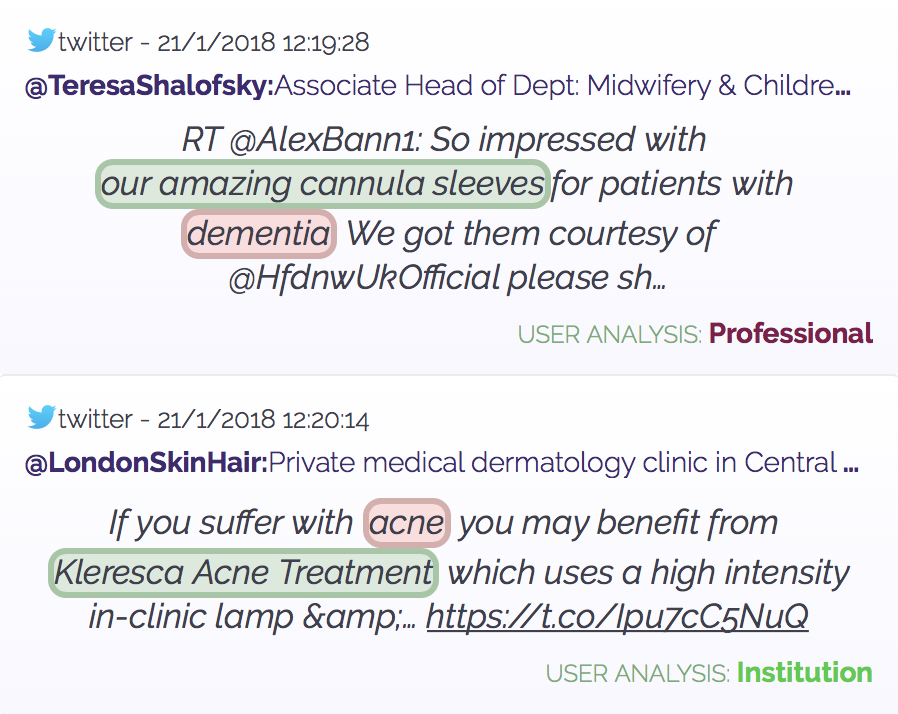
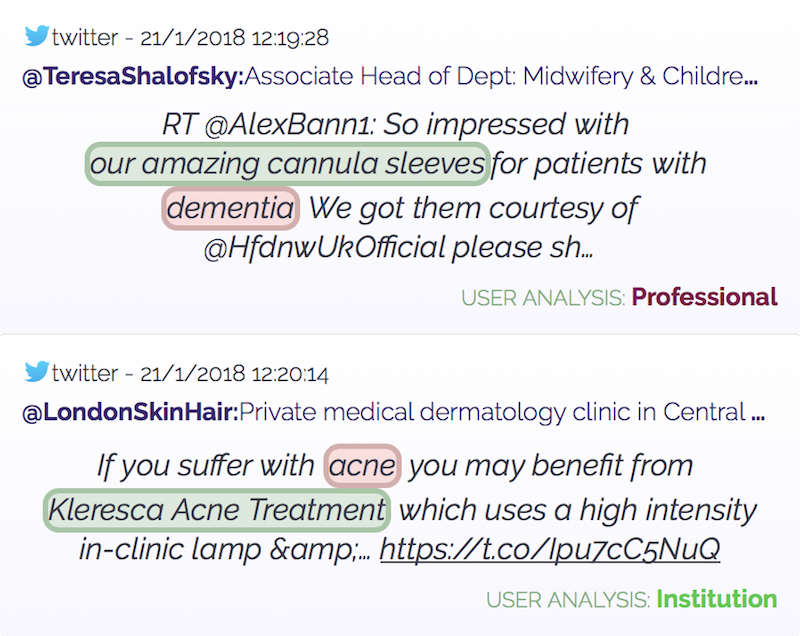
adding new content

diff --git a/assets/main.scss b/assets/main.scss
@@ -62,3 +62,124 @@ $on-laptop:        800px;
 a.site-title:hover{
   text-decoration: none;
 }
+
+.institution {
+  font-family: raleway-medium;
+  display: inline-block;
+  border-radius: 50px;
+  color: white;
+  height: 2rem;
+  padding: 0 0.2rem 0 0.2rem;
+  line-height: 2rem;
+  background-color: #2ecc40;
+}
+
+.academia {
+  font-family: raleway-medium;
+  display: inline-block;
+  border-radius: 50px;
+  color: white;
+  height: 2rem;
+  padding: 0 0.2rem 0 0.2rem;
+  line-height: 2rem;
+  background-color: #f012be;
+}
+
+.doctor {
+  font-family: raleway-medium;
+  display: inline-block;
+  border-radius: 50px;
+  color: white;
+  height: 2rem;
+  padding: 0 0.2rem 0 0.2rem;
+  line-height: 2rem;
+  background-color: #ff851b;
+}
+
+.publishingsource {
+  font-family: raleway-medium;
+  display: inline-block;
+  border-radius: 50px;
+  color: white;
+  height: 2rem;
+  padding: 0 0.2rem 0 0.2rem;
+  line-height: 2rem;
+  background-color: #ffdc00;
+}
+
+.professional {
+  font-family: raleway-medium;
+  display: inline-block;
+  border-radius: 50px;
+  color: white;
+  height: 2rem;
+  padding: 0 0.2rem 0 0.2rem;
+  line-height: 2rem;
+  background-color: #85144b;
+}
+
+.medbusiness {
+  font-family: raleway-medium;
+  display: inline-block;
+  border-radius: 50px;
+  color: white;
+  height: 2rem;
+  padding: 0 0.2rem 0 0.2rem;
+  line-height: 2rem;
+  background-color: #3d9970;
+}
+
+.interested {
+  font-family: raleway-medium;
+  display: inline-block;
+  border-radius: 50px;
+  color: white;
+  height: 2rem;
+  padding: 0 0.2rem 0 0.2rem;
+  line-height: 2rem;
+  background-color: #39cccc;
+}
+
+.initiative {
+  font-family: raleway-medium;
+  display: inline-block;
+  border-radius: 50px;
+  color: white;
+  height: 2rem;
+  padding: 0 0.2rem 0 0.2rem;
+  line-height: 2rem;
+  background-color: #ff4136;
+}
+
+.association {
+  font-family: raleway-medium;
+  display: inline-block;
+  border-radius: 50px;
+  color: white;
+  height: 2rem;
+  padding: 0 0.2rem 0 0.2rem;
+  line-height: 2rem;
+  background-color: #777777;
+}
+
+.generic {
+  font-family: raleway-medium;
+  display: inline-block;
+  border-radius: 50px;
+  color: white;
+  height: 2rem;
+  padding: 0 0.2rem 0 0.2rem;
+  line-height: 2rem;
+  background-color: #0074d9;
+}
+
+.news {
+  font-family: raleway-medium;
+  display: inline-block;
+  border-radius: 50px;
+  color: white;
+  height: 2rem;
+  padding: 0 0.2rem 0 0.2rem;
+  line-height: 2rem;
+  background-color: #001f3f;
+}

diff --git a/_includes/footer_content.html b/_includes/footer_content.html
@@ -2,4 +2,4 @@
 {% if site.feed and site.feed.path %}
   {% assign feed_path = site.feed.path %}
 {% endif %}
-&copy; {{ site.author }} Provided by the <a href="https://www.lifescope-project.com">Lifescope Project</a>
+{{ site.author }} Provided by the <a href="https://www.lifescope-project.com">Lifescope Project</a>

diff --git a/docs/assets/main.css b/docs/assets/main.css
@@ -106,7 +106,7 @@ blockquote {
  */
 pre,
 code {
-  font-size: 15px;
+  font-size: 25px;
   border: 1px solid #e8e8e8;
   border-radius: 3px;
   background-color: #eef; }

diff --git a/sources.md b/sources.md
@@ -1,21 +1,24 @@
 ---
 layout: page
-title: "Data sources"
+title: ""
 permalink: /sources/
 ---
 
-Our application and the returned datasets are based on different health information sources. Currently, the Lifescope’s algorithm receives and analyzes the data from a live source like **Twitter**, and open-source medical databases such as **PubMed** or **ClinicalTrials** (we expect to add more in the future, such as news, non-specialized and specialized feeds).
+Data sources
+------------
+
+Our application and the returned datasets are based on different health information sources. Currently, the Lifescope’s algorithm receives and analyzes data from a live source like **Twitter**, and open-source medical databases such as **PubMed** or **ClinicalTrials** (we expect to add more in the future).
 
 Lifescope is programmed with a Twitter stream listener receiving a constant input of health data, as you can see in our application timeline.
 
 <p align="center">
-<img align="center" width="512" height="407" src="/assets/img/twitterlifescope.png">
+<img align="center" width="492" height="387" src="/assets/img/twitterlifescope.png">
 </p>
 
 &nbsp; 
 &nbsp; 
 
-In addition, our platform connects to [PubMed](https://www.ncbi.nlm.nih.gov/pubmed/) and [Clinical Trials](https://www.clinicaltrials.gov)' websites, as you can see in the following screenshots.
+In addition, our platform connects to specialized databases like [PubMed](https://www.ncbi.nlm.nih.gov/pubmed/) and [Clinical Trials](https://www.clinicaltrials.gov) through RSS feeds.
 
 <p align="center">
 <img align="center" width="520" height="325" src="/assets/img/pubmed.png">
@@ -25,13 +28,13 @@ In addition, our platform connects to [PubMed](https://www.ncbi.nlm.nih.gov/pubm
 &nbsp; 
 &nbsp; 
 
-We periodically receive **RSS feeds** from these websites with up-to-date **medical articles' metadata**, which provide us with very valuable medical research headlines and hyperlinks.
+We periodically receive **RSS feeds** from these websites with up-to-date **medical articles' metadata**, which provide very valuable medical research headlines and hyperlinks.
 
 &nbsp; 
 
 Sources' reliability
 --------------------
-As very different types of information are involved, both from Twitter and specialized databases, we must explore each source’s reliability, as this table shows.
+As very different types of information are involved, both from non-specialized and specialized sources, we must explore each source’s reliability.
 
 | Source name | Source type | Reliability |
 |:--------------------------|:------------------|:---------------|
@@ -49,7 +52,7 @@ As very different types of information are involved, both from Twitter and speci
 | Association | Twitter | Less reliable |
 | Generic | Twitter | Less reliable |
 
-We made a simple but effective reliability scale to categorize the sources being used. As you can see, medical databases are at the top of the scale, whereas a social network like Twitter holds a lower position. **We manually evaluated the user profiles' reliability on the 1023 test messages**, that were used in [the algorithm's confidence assessment](/confidence/).
+We made a simple but effective reliability scale to categorize the sources being used. As you can see, medical databases are at the top of the scale, whereas a social network like Twitter holds a lower position. **We manually evaluated the user profiles' reliability on the 1023 test messages** that were used in the [algorithm's confidence assessment](/confidence/).
 
 &nbsp; 
 
@@ -57,13 +60,13 @@ Twitter's user profile categories
 ---------------------------------
 As for Twitter, our algorithm was trained to return different reliability levels within a community of users providing healthcare information. For this reason, a key component of Lifescope is the **Twitter user profile analyzer**. It captures the most health-related profiles, and then assigns a category to each profile.
 
-By using this system of categories, we expect to have lesser chances of receiving inputs from non-health (and non-wanted) related users. And yet, we can continue making a distinction among the incoming health-related users, as **the algorithm distinguishes different profiles**.
+By using this system of categories, we expect to have lesser chances of receiving inputs from non-health (and non-wanted) related users. And yet, we can continue making a distinction among the incoming health-related users, as **the algorithm distinguishes different health-related profiles**.
 
 The following is a list of the 11 user profiles categorized by the algorithm, together with a definition and an example for each one (all these profiles are publicly available in Twitter).
 
-&nbsp; 
+&nbsp;
 
-+   **Institution**: Any kind of healthcare formal organization.
+<span class="institution">institution</span> &nbsp; <b>Any kind of healthcare formal organization</b>
 
 <blockquote class="twitter-tweet" data-lang="en">
 <a href="https://twitter.com/AADskin/status/953766892908498945"></a></blockquote>
@@ -71,7 +74,9 @@ The following is a list of the 11 user profiles categorized by the algorithm, to
 
 &nbsp; 
 
-+   **Academia**: A health science researcher or lecturer
+&nbsp; 
+
+<span class="academia">academia</span> &nbsp; <b>A health science researcher or lecturer</b>
 
 <blockquote class="twitter-tweet" data-lang="en">
 <a href="https://twitter.com/Schoffmonster/status/942790405170651137"></a></blockquote>
@@ -79,7 +84,9 @@ The following is a list of the 11 user profiles categorized by the algorithm, to
 
 &nbsp; 
 
-+   **Doctor**: A self-described physician
+&nbsp; 
+
+<span class="doctor">doctor</span> &nbsp; <b>A self-described physician</b>
 
 <blockquote class="twitter-tweet" data-lang="en">
 <a href="https://twitter.com/headachedoc/status/950133426379685889"></a></blockquote>
@@ -87,7 +94,9 @@ The following is a list of the 11 user profiles categorized by the algorithm, to
 
 &nbsp; 
 
-+   **Publishing source**: A medical serious publication
+&nbsp; 
+
+<span class="publishingsource">publishing source</span> &nbsp; <b>A medical serious publication</b>
 
 <blockquote class="twitter-tweet" data-lang="en">
 <a href="https://twitter.com/AmJPsychiatry/status/950780530173280256"></a></blockquote>
@@ -95,7 +104,9 @@ The following is a list of the 11 user profiles categorized by the algorithm, to
 
 &nbsp; 
 
-+   **Professional**: A self-described expert in some health domain
+&nbsp;  
+
+<span class="professional">professional</span> &nbsp; <b>A self-described expert in some health domain</b>
 
 <blockquote class="twitter-tweet" data-lang="en">
 <a href="https://twitter.com/TraeHook/status/964892231042846721"></a></blockquote>
@@ -103,7 +114,9 @@ The following is a list of the 11 user profiles categorized by the algorithm, to
 
 &nbsp; 
 
-+   **Med Business**: A source related to medical products or companies
+&nbsp;  
+
+<span class="medbusiness">med business</span> &nbsp; <b>A source related to medical products or companies</b>
 
 <blockquote class="twitter-tweet" data-lang="en">
 <a href="https://twitter.com/kiranshaw/status/982262451855962113"></a></blockquote>
@@ -111,7 +124,9 @@ The following is a list of the 11 user profiles categorized by the algorithm, to
 
 &nbsp; 
 
-+   **Interested in healthcare**: Someone who expresses an interest in healthcare
+&nbsp;  
+
+<span class="interested">interested in healthcare</span> &nbsp; <b>Someone who expresses an interest in healthcare</b>
 
 <blockquote class="twitter-tweet" data-lang="en">
 <a href="https://twitter.com/eng_louise/status/960098816505589765"></a></blockquote>
@@ -119,7 +134,9 @@ The following is a list of the 11 user profiles categorized by the algorithm, to
 
 &nbsp; 
 
-+   **News source**: Any kind of medical news source.
+&nbsp;  
+
+<span class="news">news source</span> &nbsp; <b>Any kind of medical news source</b>
 
 <blockquote class="twitter-tweet" data-lang="en">
 <a href="https://twitter.com/THEMMEXCHANGE/status/977916534059184128"></a></blockquote>
@@ -127,7 +144,9 @@ The following is a list of the 11 user profiles categorized by the algorithm, to
 
 &nbsp; 
 
-+   **Healthcare initiative**: A source related to a healthcare project or action plan
+&nbsp; 
+
+<span class="initiative">healthcare initiative</span> &nbsp; <b>A source related to a healthcare project or action plan</b>
 
 <blockquote class="twitter-tweet" data-lang="en">
 <a href="https://twitter.com/nclexpharm/status/920107188726706176"></a></blockquote>
@@ -135,7 +154,9 @@ The following is a list of the 11 user profiles categorized by the algorithm, to
 
 &nbsp; 
 
-+   **Association**: Any kind of organization related to healthcare
+&nbsp;  
+
+<span class="association">association</span> &nbsp; <b>Any kind of organization related to healthcare</b>
 
 <blockquote class="twitter-tweet" data-lang="en">
 <a href="https://twitter.com/NevadaBaseball/status/979504129633480705"></a></blockquote>
@@ -143,8 +164,9 @@ The following is a list of the 11 user profiles categorized by the algorithm, to
 
 &nbsp; 
 
-+   **Generic**: Any other health-related sources
+&nbsp;  
 
+<span class="generic">generic</span> &nbsp; <b>Any other health-related sources</b>
 <blockquote class="twitter-tweet" data-lang="en">
 <a href="https://twitter.com/VeganHealthDiet/status/983422333800116224"></a></blockquote>
 <script async="" src="//platform.twitter.com/widgets.js" charset="utf-8"></script>

diff --git a/confidence.md b/confidence.md
@@ -1,55 +1,52 @@
 ---
 layout: page
-title: "Algorithm's confidence"
+title: ""
 permalink: /confidence/
 ---
-  
-[![Alt text](/assets/img/confidence.png)](https://datastudio.google.com/embed/reporting/17i3EjWTInDBFbFK1ruNQyvw-ijbxFXk1/page/9zcN)
-*Click on this preview for a detailed report on the algorithm's confidence level*
+
+Algorithm's confidence
+----------------------
+Click on the following preview for a detailed report on the algorithm's confidence level.
+
+<a href="https://datastudio.google.com/embed/reporting/17i3EjWTInDBFbFK1ruNQyvw-ijbxFXk1/page/9zcN" target="blank">
+![Alt text](/assets/img/confidence.png)
+</a>
+
 &nbsp;  
 &nbsp; 
 
-Algorithm's performance: How do we evaluate it?
------------------------------------------------
+How do we evaluate it?
+----------------------
 
 We have manually tested **a sample of solutions and diseases** retrieved by the algorithm. A retrieved solution or disease is tested *True* or *False* **depending on how good or bad the algorithm performs in understanding natural language**. 
 
 For example, Lifescope retrieves *botox* as solution, and *bruxism* as disease, in the following Twitter message:
 
-> ![Alt text](/assets/img/twitterchico.png) Thank you for helping me spread the word about botox as a treatment for bruxism
+> ![Alt text](/assets/img/Twitter-logo.png) Thank you for helping me spread the word about botox as a treatment for bruxism
 
-{% highlight javascript%}
-'botox' = 1.0
-'bruxism' = 1.0
-{% endhighlight %}
+&nbsp; &nbsp; ![Alt text](/assets/img/greendot.png) bottox (1) &nbsp; ![Alt text](/assets/img/greendot.png) bruxism (1)
 
 &nbsp; 
 &nbsp; 
 
-Both retrieved items are **True** (both were properly understood as a treatment and a condition), hence we assign **1.0** to both the solution and the disease. If **False**, we assign **0**, as in
+Both retrieved items are **True** (both were properly understood as a treatment and a condition), hence we assign 1 to both the solution and the disease. If **False**, we assign 0, as in the first match of the following message:
 
-> ![Alt text](/assets/img/twitterchico.png) Purkinje neuron degeneration on cerebellar ataxia
+> ![Alt text](/assets/img/Twitter-logo.png) Purkinje neuron degeneration on cerebellar ataxia
 
-{% highlight javascript%}
-'purkinje neuron degeneration' = 0
-'cerebellar ataxia' = 1.0
-{% endhighlight %}
+&nbsp; &nbsp; ![Alt text](/assets/img/reddot.png) purkinje neuron degeneration (0) &nbsp; ![Alt text](/assets/img/greendot.png) cerebellar ataxia (1)
 
 &nbsp; 
 &nbsp; 
 
-And **0.5 to poorly informative cases**, as the following, where *screening for lung cancer* is OK, but the appropriate text match is *screening of FOXD3*.
+And 0.5 to **poorly informative cases** as the following, where *screening* is OK, but the appropriate match would have been *screening of FOXD3*.
 
-> ![Alt text](/assets/img/twitterchico.png) Screening of FOXD3 targets in lung cancer
+> ![Alt text](/assets/img/Twitter-logo.png) Screening of FOXD3 targets in lung cancer
 
-{% highlight javascript%}
-'screening for lung cancer' = 0.5
-'lung cancer' = 1
-{% endhighlight %}
+&nbsp; &nbsp; ![Alt text](/assets/img/amberdot.jpeg) screening (0.5) &nbsp; ![Alt text](/assets/img/greendot.png) lung cancer (1)
 
 &nbsp; 
 &nbsp; 
 
-Finally, note that **we are not evaluating the retrieved content, that is, if the solution is clinically good or bad, or even true or false**. For this reason, if the input text were a purple lemon to prevent cancer, we would assign 1.0 to a purple lemon as a solution.
+Finally, note that **we are not evaluating the retrieved content, that is, if the solution is clinically good or bad, or even true or false**. For this reason, if the input text were *a purple lemon to prevent cancer*, we would assign 1 to *purple lemon* as a solution.
 
-However, as the Lifescope's algorithm receives inputs only from healthcare-related users (see the [link]Sources section), we don't expect many purple lemon matches as a cancer therapy!
+However, as the Lifescope's algorithm receives inputs only from healthcare-related users (see the [Sources](/sources/) section), we don't expect many purple lemon matches as a cancer therapy!
